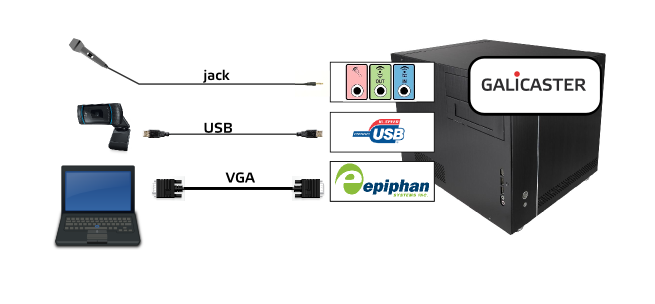
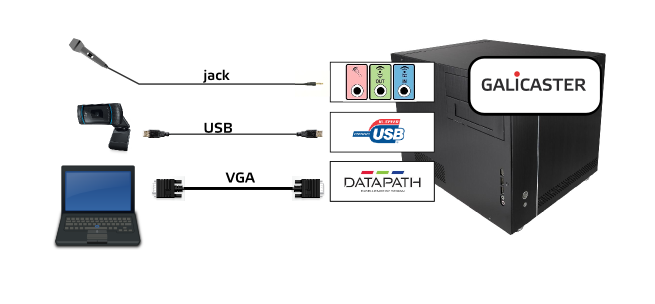
Update Hardware Recommendations

Changed region(s): [[0.4885, 0.5329, 0.6718, 0.6513]]

diff --git a/HardwareRecommendations/CompatibleHardware.md b/HardwareRecommendations/CompatibleHardware.md
@@ -1,7 +1,7 @@
 Compatible hardware
 ===================
 
-*This page is updated to the 1.4.2 release*
+*This page is updated to the 2.0.0 release*
 
 In this section we will enumerate the devices and capture cards compatible with Galicaster, and mention the Galicaster modules designed to make them work. Usually, Galicaster captures a camera feed and a presentation feed from a laptop or similar device. Audio can be captured through the video capture card, through the soundcard or with specialized devices.
 
@@ -17,15 +17,17 @@ Some card models by different vendors and for different video recording formats,
 |------------------|----------------|-------|-----------|-----------|--------|--------|-------|
 | Logitech webcams | [Drivers & Info](../GalicasterConfiguration/DeviceModules/Devices/Logitech.md) | c920, c910 BCC9500 | [v4l2](../GalicasterConfiguration/DeviceModules/V4L2.md) | USB | RAW | HD Full HD | Yes (pulse) |
 | Blackmagic cards | [Drivers & Info](../GalicasterConfiguration/DeviceModules/Devices/Blackmagic.md) |	Decklink | [blackmagic](../GalicasterConfiguration/DeviceModules/Blackmagic.md) |	BNC or breakout cable | Multiple | SD-SDI and HD-SDI | Yes (embedded)|
-| Firewire cameras | [Drivers & Info](../GalicasterConfiguration/DeviceModules/Devices/Firewire.md) | multiple | [firewire](../GalicasterConfiguration/DeviceModules/Firewire.md) | Firewire miniFW| SD or DV | PAL/NTSC | Some models only|
 
 #### Other capture devices
+**NOT TESTED WITH GALICASTER 2**
+
 | Device           |                | Model | GC Module | Connector | Signal | Format | Audio |
 |------------------|----------------|-------|-----------|-----------|--------|--------|-------|
 | Hauppauge cards  | [Drivers & Info](../GalicasterConfiguration/DeviceModules/Devices/Hauppauge.md) | PVR-350 PVR-250| [hauppauge](../GalicasterConfiguration/DeviceModules/Hauppauge.md) | RCA or 5-pin | SD | PAL/NTSC | Yes (raw and encoded) |
 | Osprey cards     | [Drivers & Info](../GalicasterConfiguration/DeviceModules/Devices/Osprey.md) | 230 and others | [v4l2](../GalicasterConfiguration/DeviceModules/V4L2.md) | BNC and other (adaptors) | SD | PAL/NTSC pan. | Yes (pulse) |
 | Axis cameras     | [Drivers & Info](../GalicasterConfiguration/DeviceModules/Devices/Axis.md) | multiple | [rtp](../GalicasterConfiguration/DeviceModules/RTP.md) | Ethernet | H264 or MPEG4 | up to QVGA | Some models only |
 | Bluecherry cards | [Drivers & Info](../GalicasterConfiguration/DeviceModules/Devices/Bluecherry.md) | multiple | [v4l2](../GalicasterConfiguration/DeviceModules/V4L2.md) | BNC	 | SD | PAL/NTSC | Some models only |
+| Firewire cameras | [Drivers & Info](../GalicasterConfiguration/DeviceModules/Devices/Firewire.md) | multiple | [firewire](../GalicasterConfiguration/DeviceModules/Firewire.md) | Firewire miniFW| SD or DV | PAL/NTSC | Some models only|
 
 ### VGA/DVI capture devices
 Presentation is usually captured using specialized capture cards. Those cards can be connected to a variety of devices: PCs, laptops, tablets, projectors, VGA splitters and matrix switches. There are options to record VGA, DVI and HDMI sources.
@@ -39,6 +41,8 @@ Presentation is usually captured using specialized capture cards. Those cards ca
 
 
 #### Other VGA/DVI capture devices
+**NOT TESTED WITH GALICASTER 2**
+
 | Device                |                | Model | GC Module | Connector | Signal | Format | Audio | Support Level|
 |-----------------------|----------------|-------|-----------|-----------|--------|--------|-------|--------------|
 | Epiphan framegrabbers | [Drivers & Info](../GalicasterConfiguration/DeviceModules/Devices/Epiphan.md) | DVI2PCIe VGA2USB DVI2USB | [v4l2](../GalicasterConfiguration/DeviceModules/V4L2.md) | VGA or DVI | RGBHV |	upto QVGA | Not yet | Low |

diff --git a/HardwareRecommendations.md b/HardwareRecommendations.md
@@ -1,7 +1,7 @@
 Hardware recommendations
 ========================
 
-*This document is updated to the 1.4.2 release*
+*This document is updated to the 2.0.0 release*
 
 Base unit
 ---------
@@ -20,7 +20,7 @@ The capture devices used with Galicaster demand a high bandwith capacity and dis
 * 64 bits architecture.
 * 4 GB of RAM memory.
 
-> The selected hardware must be compatible with your Linux distribution of choice. Our recommendation is using Ubuntu 12.04, since Galicaster is developed and extensively tested in this distribution. Nonetheless, other distributions may work with Galicaster, however some additional testing is advisable.
+> The selected hardware must be compatible with your Linux distribution of choice. Our recommendation is using Ubuntu 16.04, since Galicaster is developed and extensively tested in this distribution. Nonetheless, other distributions may work with Galicaster, however some additional testing is advisable.
 
 Touchscreen
 -----------
@@ -53,7 +53,7 @@ Entry level unit - HD webcam based
 |----------------------|-----------------------------|-----------------|--------------|
 | **Base unit**        | Intel i3 processor 4 GB RAM |                 |              |
 | **Camera**           | [Logitech c920](GalicasterConfiguration/DeviceModules/Devices/Logitech.md)             | 720p or 1080p   |              |
-| **VGA capture card** | [Epiphan VGA2USB](GalicasterConfiguration/DeviceModules/Devices/Epiphan.md)           | up to 1280x1024 |	This device is not able to record full motion presentations, only slides |
+| **VGA capture card** | [Datapath VisionRBG 1es](GalicasterConfiguration/DeviceModules/Devices/Datapath.md) | 24bit 1920x1080 x 32bit at 60Hz |	Accepts DVI single link and VGA |
 
 
 SD camera and DVI framegrabber
@@ -64,7 +64,7 @@ SD camera and DVI framegrabber
 | Component 	         | Device                      |	Format         | Observations |
 |----------------------|-----------------------------|-----------------|--------------|
 | **Base unit**        | Intel i3 processor 4 GB RAM |                 |              |
-|**Video capture card**| [Osprey 230](GalicasterConfiguration/DeviceModules/Devices/Osprey.md) Generic Firewire card | PAL/NTSC  DV| Accepts audio via stereo RCA. Accepts embedded audio |
+|**Video capture card**| [Blackmagic Intensity Pro](GalicasterConfiguration/DeviceModules/Devices/Blackmagic.md) | 720p, 1080p, 1080i  | Sound embedded or analog |
 | **DVI capture card** | [Datapath VisionRBG 1es](GalicasterConfiguration/DeviceModules/Devices/Datapath.md) | 24bit 1920x1080 x 32bit at 60Hz |	Accepts DVI single link and VGA |
 
 
